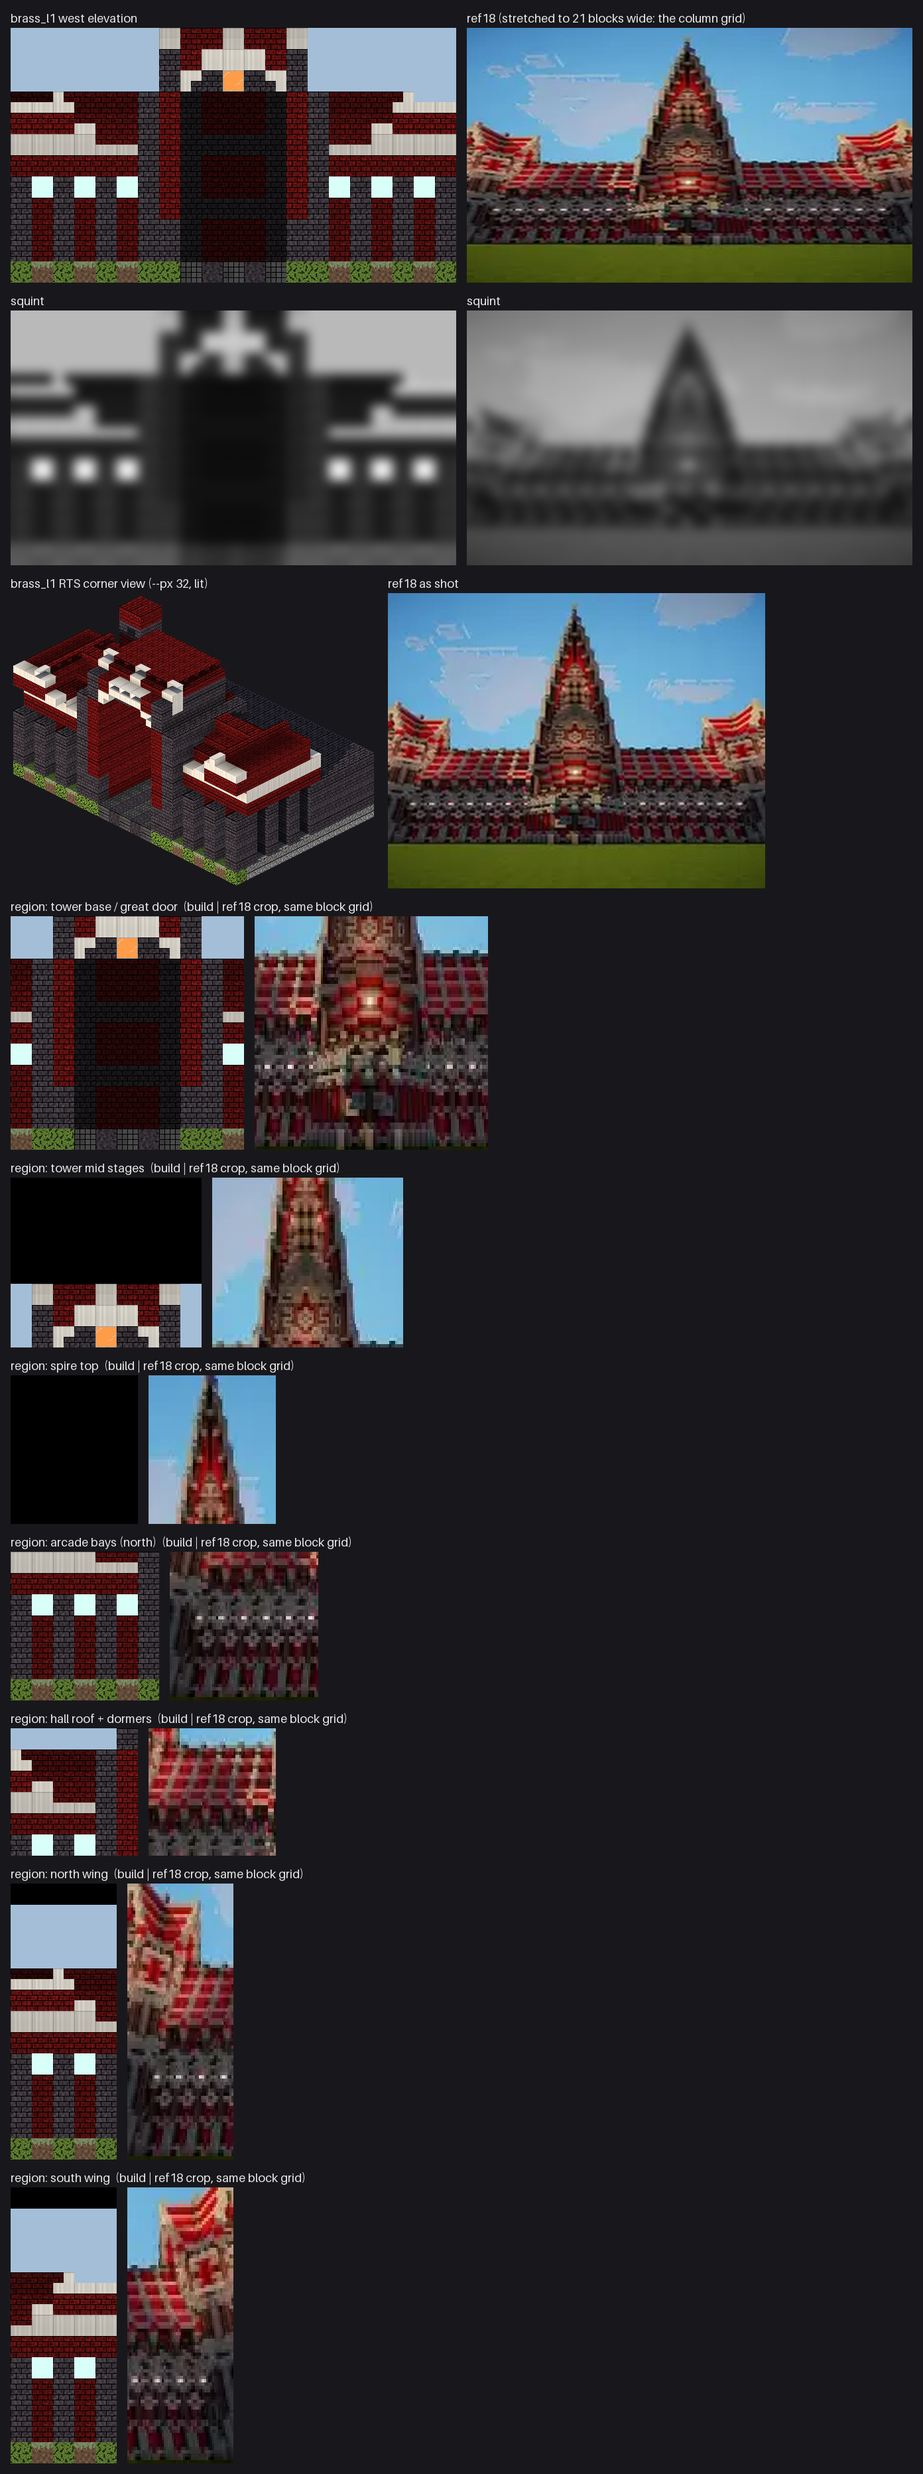
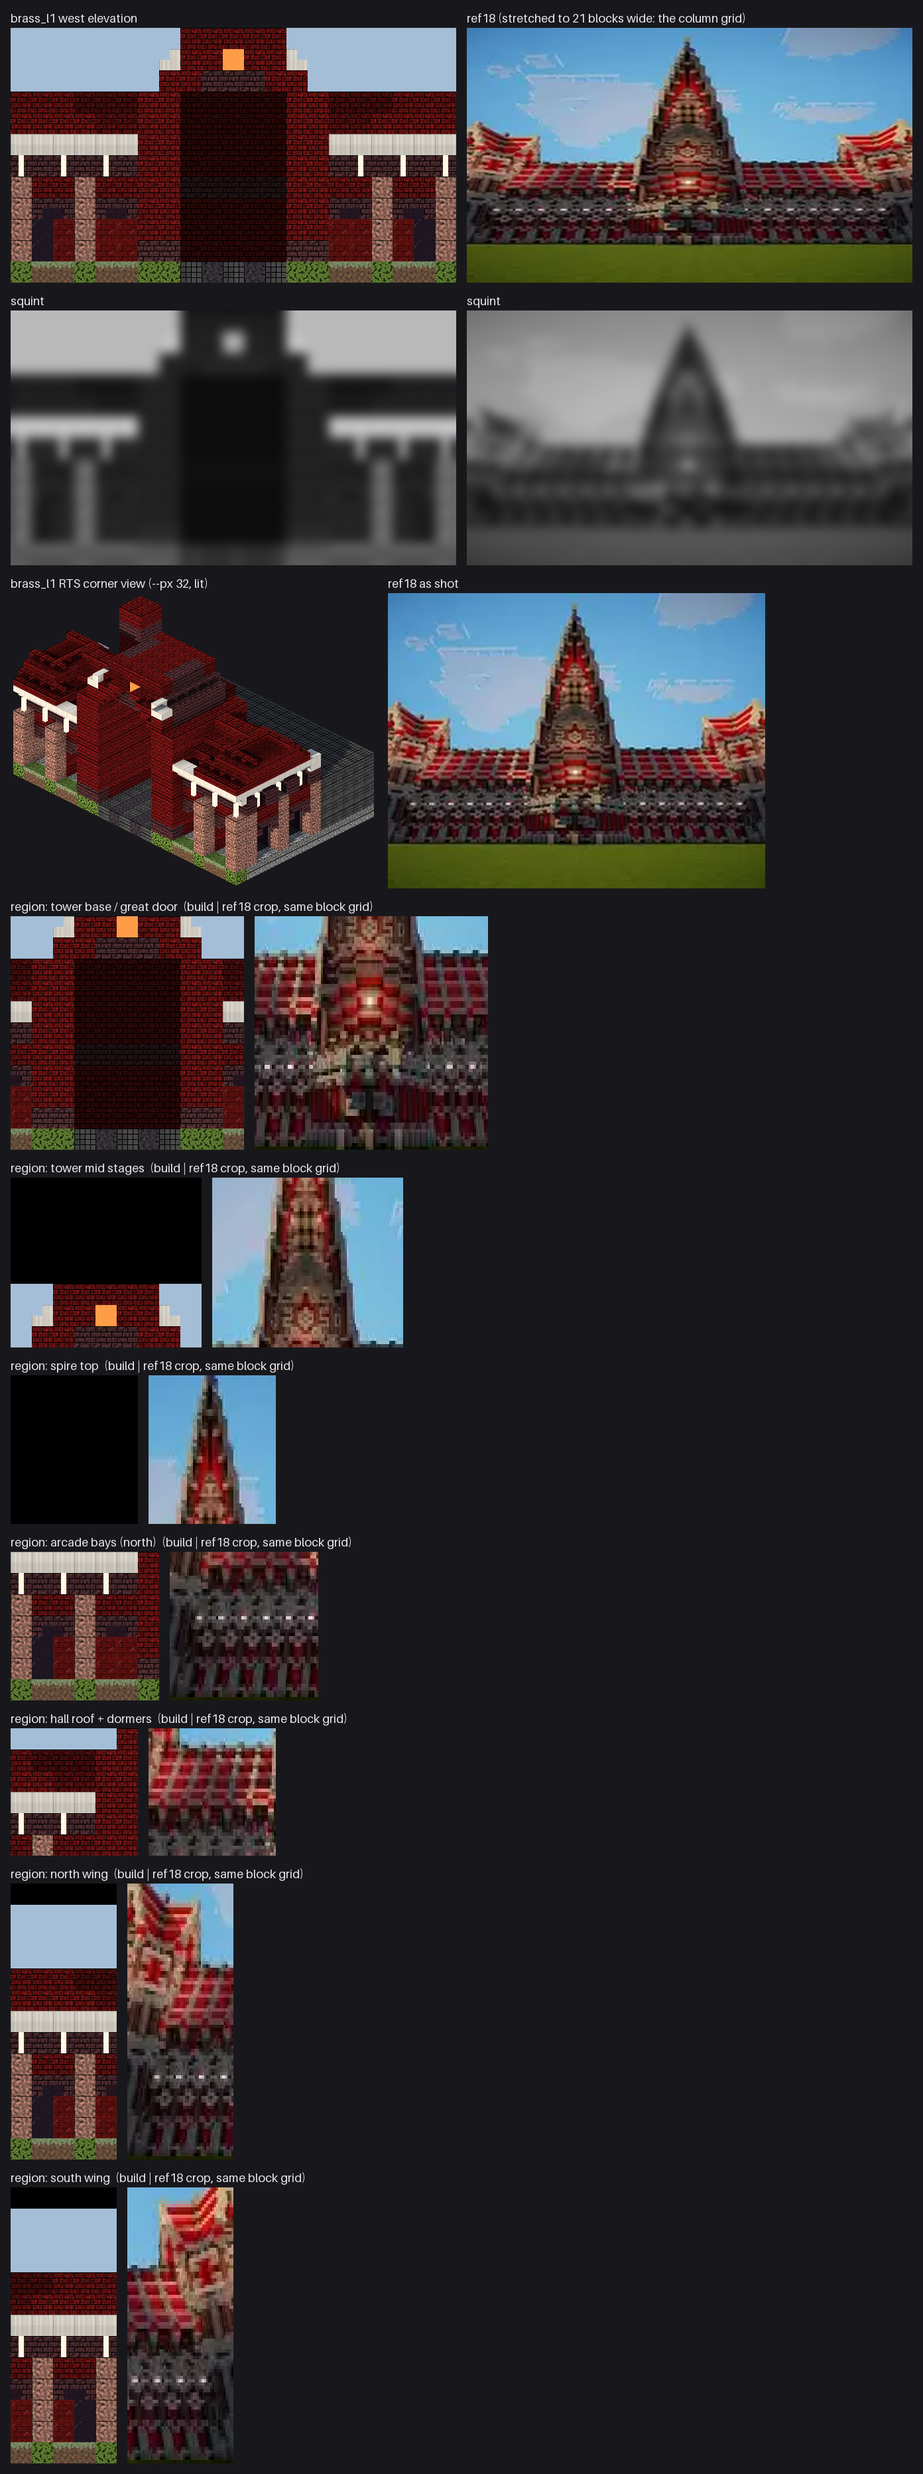
design: Engine Shed detail round 3 (continuous spire from a width table, colour measured on rendered pixels)
Claude-Session: https://claude.ai/code/session_01Xns8nVKZZJBRXps6hy86qY

diff --git a/tools/lab_vehicle_brass.py b/tools/lab_vehicle_brass.py
@@ -116,6 +116,23 @@ edges - that is what made r1's flares and lantern box.
      banded dark. Front balance 42 / 37 / 18 (red / black / cream).
   4  stage lips dashed (cream at the arrises and centre only); the works stack's top hidden behind the wing crest.
      Balance 44 / 37 / 16 + 3% light, outline still equal to r3 column for column.
+DETAIL ROUND 3 (critic on r2: 4 / 4 - the tower still read as stacked stages; sheet brass_detail_vs_ref_r3.png, lit).
+Fixed BY NUMBERS first. The spire is ONE line, HW_TABLE (row -> the line's half-width at each half row and the outline
+that quantizes it), half-width 3.5 at the hall roof (the r3 base, 7 wide) to 0 at y 22; a stair (tall half in) wherever
+the outline steps in half a block. Colour measured on the RENDERED PIXELS (scratch tool: near-black = luma < 62 and
+chroma < 36, red = red-dominant above it): ref18's building reads 42 / 38 / 2 (red / near-black / pale).
+  1  spire from shape_kit (a sampled pyramid): rows 9-13 came out one width - a box shoulder; max deviation 1.0 block.
+  2  spire from the table, quantized per half row (best monotone outline); cream single cells on the front arrises.
+     Blackstone rendered GREY, not black (pixels: 39 red / 37 black / 14 other) -> the darks are nether brick
+     (65,37,40) and deepslate tiles.
+  3  pilasters polished granite (warm, paler than the bays), the bays red glass over red brick under a tinted-glass
+     head, end rods hung under the eave every 2 blocks; elevation 53 / 38 / 8, corner 59 / 27 / 6.
+  4  wing roofs gabled: each course steps in 1 toward a 1-wide ridge with a brick finial, the outer end's eave an
+     overhanging cream stair.
+  5  cream moved to mid-run cells (no step "ears"), then back to the step stairs (single wedges ON the line); a pass
+     that let a full row follow a stair at the same width made notches - the outline must never widen going up.
+  Spire vs ref18's line: max 1.17 blocks at the foot (r3's 7-wide base against ref18's 5), <= 0.6 from y 11 up,
+  <= 0.5 against its own line everywhere.
 
 Usage: python3 tools/lab_vehicle_brass.py            (writes design/vehicle_labs/brass_l3.nbt and brass_l1.nbt, checks)
        python3 tools/lab_vehicle_brass.py --greybox  (the approved r3 greybox: design/vehicle_labs/brass_l3_greybox.nbt)
@@ -261,10 +278,12 @@ def greybox():
 FAM = {
     "roof": ("red_nether_bricks", "red_nether_brick_stairs", "red_nether_brick_slab"),
     "white": ("quartz_block", "quartz_stairs", "quartz_slab"),
+    "dark": ("nether_bricks", "nether_brick_stairs", "nether_brick_slab"),
 }
 OUT_L3, OUT_L1 = "design/vehicle_labs/brass_l3.nbt", "design/vehicle_labs/brass_l1.nbt"
-PIERS_Z = (0, 2, 4, 16, 18, 20)        # front arcade piers: blackstone, every 2nd column
-BAYS_Z = (1, 3, 5, 15, 17, 19)         # front arcade openings, 1 wide, dark, a light dot over each
+PILASTERS_Z = (0, 3, 17, 20)           # the front arcade's pilasters (the tower's dark base piers at z 6 / 14)
+BAY_Z0 = (1, 4, 15, 18)                # each 2-wide bay's first column
+LIGHTS_Z = (0, 2, 4, 16, 18, 20)       # the tiny lights under the eave, every 2 blocks
 
 
 def shape_of(name):
@@ -295,131 +314,209 @@ def slab(fam, t="bottom"):
     return FAM[fam][2], dict(type=t, waterlogged="false")
 
 
-# ---- round 2 (critic: resemblance 4, quality 5, silhouette worse than r3): the tower rebuilt as explicit stages
-RED, BLACK, CREAM = "red_nether_bricks", "polished_blackstone_bricks", "quartz_block"
-# stages (y0, y1, x0, z0, z1): each set back one block in x and z; the outline tapers 7 -> 5 -> 3 -> 1 (r3's columns)
-STAGES = ((9, 11, 1, 7, 13), (12, 15, 2, 8, 12), (16, 19, 3, 9, 11))
-T_BACK = 5            # every stage's back face (x 6 stays air: the spawn column)
-POINT = (3, 20, 10)   # the brick point: a red block and a red brick wall post on it (y 21)
+# ---- round 3 (critics on r2: 4 / 4 - the tower still read as stacked stages): ONE continuous taper, by numbers
+# measured on the LIT RENDER, not by block: polished blackstone renders mid grey, so the near-black share is nether
+# brick (65,37,40 - ref18's dark crimson-brown) and deepslate tiles (58 grey, dark under the sun's angle)
+RED, BLACK, CREAM = "red_nether_bricks", "nether_bricks", "quartz_block"
+DARK_GLASS = "tinted_glass"
+PILASTER = "polished_granite"          # the arcade's pilasters: paler than the dark bays, warm (red-dominant pixels)
+T_CX, T_CZ, T_BACK = 3, 10, 5          # the spire's axis (x, z) and its back column (x 6 = the spawn column)
+T_Y0, T_APEX, T_HW0 = 9, 22.0, 3.5      # the line: half-width 3.5 at the hall's roof line (y 9) to 0 at y 22
+# THE LINE. ref18's flank, measured on its sky mask in this build's block grid (230 px -> 21 blocks, ground..tip ->
+# 0..22), is straight: half-width 2.47 at the hall roof (y 9.5), 1.55 at y 15.8, 0.23 at y 21.5 (hw = 4.07 - 0.169 y).
+# The approved r3 massing is 7 wide at the hall roof (both critics: the massing reads right at RTS zoom), so the spire
+# runs from r3's width there to the apex: hw(y) = 3.5 (22 - y) / 13 - steeper than ref18's by 0.1 a block, up to 1.0
+# block wider at the foot, equal at y ~20.
+# QUANTIZING (front view), per HALF row: a row's lower half can only end on a cell edge (lo = k + 0.5); its upper half
+# on that edge or half a block in (hi = lo - 0.5: the outer ring a stair, tall half facing in); the next row's lower
+# half no wider than that upper half, so the outline never widens going up (pass 8 let a full row follow a stair row at
+# the same width: notches). width_table() takes the monotone outline with the smallest summed square deviation from
+# the line (then the smallest worst one) - one line of half steps, no shoulders.
 
 
-def stage_of(y):
-    return next((st for st in STAGES if st[0] <= y <= st[1]), None)
+def hw(y):
+    return max(0.0, T_HW0 * (T_APEX - y) / (T_APEX - T_Y0))
+
+
+def width_table():
+    """THE WIDTH TABLE: row y -> (line half-width at the lower / upper half's middle, lower / upper outline)."""
+    ys = list(range(T_Y0, int(T_APEX)))
+    best = {9.0: (0.0, 0.0, [])}                 # state: the last half row's outline -> (worst, sum sq, outlines)
+    for y in ys:
+        lo_t, hi_t = hw(y + .25), hw(y + .75)
+        nxt = {}
+        for prev, (sq, worst, path) in best.items():
+            for lo in [k + .5 for k in range(5) if k + .5 <= prev]:
+                for hi in [w for w in (lo, lo - .5) if w > 0]:
+                    e1, e2 = abs(lo - lo_t), abs(hi - hi_t)
+                    cand = (sq + e1 * e1 + e2 * e2, max(worst, e1, e2), path + [(y, lo, hi)])
+                    if hi not in nxt or cand[:2] < nxt[hi][:2]:
+                        nxt[hi] = cand
+        best = nxt
+    path = min(best.values(), key=lambda c: c[:2])[2]
+    return {y: (round(hw(y + .25), 2), round(hw(y + .75), 2), lo, hi) for y, lo, hi in path}
+
+
+HW_TABLE = width_table()
+TIP_Y0 = 20           # from here the point is a brick wall post (the line's half-width < 0.4)
+
+
+def spire_cells():
+    """{(x, y, z): ("full",) | ("stairs", inward)} from HW_TABLE: square rings of Chebyshev distance d round the axis
+    (cut at the back column); the outer ring d = lo - 0.5 is full, or a stair facing in where the upper half steps in."""
+    out = {}
+    for y, (_, _, lo, hi) in HW_TABLE.items():
+        if y >= TIP_Y0:
+            continue
+        dmax = int(lo - .5)
+        for x in range(max(0, T_CX - dmax), T_BACK + 1):
+            for z in range(T_CZ - dmax, T_CZ + dmax + 1):
+                d = max(abs(x - T_CX), abs(z - T_CZ))
+                if d > dmax:
+                    continue
+                if d < dmax or hi == lo or d == 0:
+                    out[(x, y, z)] = ("full",)
+                else:
+                    side = abs(z - T_CZ) == d                # a flank cell (z) or a front / back cell (x)
+                    out[(x, y, z)] = ("stairs", ("south" if z < T_CZ else "north") if side else
+                                      ("east" if x < T_CX else "west"))
+    return out
 
 
 def tower(g):
-    """The tower, replacing the greybox pyramid: a base block over the great door (y 1..8, x 0..6, z 6..14), a
-    frontispiece with the round arch (x 0, y 9..10, z 7..13), three set-back stages and a brick point. Dark red-brown
-    flanks (blackstone) and a red heart; cream only on the arrises (stage corners) and the stage lips."""
+    """The tower, replacing the greybox pyramid: the base block over the great door (y 1..8, x 0..6, z 6..14) and ONE
+    continuous spire from the hall's roof line to the apex, voxelized with its stair edges (low side out) so each
+    flank reads as a line. Dark red, near-black bands, cream only as dashed single cells on the two front arrises."""
     for q in [q for q in g.b if q[0] <= 6 and 6 <= q[2] <= 14 and q[1] >= 1]:
         x, y, z = q
         if y >= 9 or (y >= 6 and z in (6, 7, 13, 14)) or (x == 0 and z in (6, 7, 13, 14)):
             del g.b[q]
-    # the base block: two flanking piers either side of the lane, full depth, to the hall's ridge course
     for z in (6, 7, 13, 14):
         for x in range(0, 7):
             for y in range(1, 9):
-                put(g, (x, y, z), BLACK if z in (6, 14) or x == 0 and y <= 2 else RED)
-    # the stages
-    for (y0, y1, x0, z0, z1) in STAGES:
-        for y in range(y0, y1 + 1):
-            for x in range(x0, T_BACK + 1):
-                for z in range(z0, z1 + 1):
-                    edge = z in (z0, z1) or x == x0 and z in (z0 + 1, z1 - 1) and z1 - z0 >= 4
-                    corner = x == x0 and z in (z0, z1) and (y - y0) % 2 == 1      # quoins: the arris, dashed
-                    put(g, (x, y, z), CREAM if corner else BLACK if edge else RED)   # red faces, dark flanks
-        # the lip: the top course's cells not under the next stage turn into stairs falling outward, in cream
-        nxt = stage_of(y1 + 1)
-        for x in range(x0, T_BACK + 1):
-            for z in range(z0, z1 + 1):
-                under = nxt and x >= nxt[2] and nxt[3] <= z <= nxt[4] or (x, y1 + 1, z) == POINT
-                if under:
-                    continue
-                face = "east" if x == x0 else "south" if z == z0 else "north" if z == z1 else "west"
-                lip = x == x0 and (z in (z0, z1) or z == 10)    # cream at the arrises and the centre: a lip, dashed
-                put(g, (x, y1, z), *stair("white" if lip else "roof", face))
-    put(g, POINT, RED)
-    put(g, (POINT[0] + 1, POINT[1], POINT[2]), RED)
-    put(g, (POINT[0], POINT[1] + 1, POINT[2]), "red_nether_brick_wall")
-    # the frontispiece over the door: the round arch in wall material, a cream voussoir line tracing its head
-    for y in (9, 10):
-        for z in range(7, 14):
-            put(g, (0, y, z), BLACK if z in (7, 13) else RED)
-    put(g, (0, 9, 8), *stair("white", "north", "top"))         # the haunches: the arch's head rounds off
-    put(g, (0, 9, 12), *stair("white", "south", "top"))
+                put(g, (x, y, z), BLACK if x == 0 and y <= 1 else RED)
+    cells = spire_cells()
+    for (x, y, z), c in cells.items():
+        d = max(abs(x - T_CX), abs(z - T_CZ))
+        outer = d == int(HW_TABLE[y][2] - .5) and d > 0
+        fam = "dark" if outer and abs(z - T_CZ) == d and abs(x - T_CX) < d else "roof"   # near-black flank faces
+        if c[0] == "stairs":
+            put(g, (x, y, z), *stair(fam, c[1]))
+        elif c[0] == "slab":
+            put(g, (x, y, z), *slab(fam))
+        else:
+            put(g, (x, y, z), FAM[fam][0])
+    for y in range(TIP_Y0, int(T_APEX)):                       # the point: thin brick posts (half a block wide),
+        put(g, (T_CX, y, T_CZ), "red_nether_brick_wall")       # where the line is under a quarter block
+    for (x, y, z), c in cells.items():                 # cream: one cell per side where the flank line steps in -
+        d = int(HW_TABLE[y][2] - .5)                   # the stair on the front arris, a half-block wedge lying ON
+        if c[0] == "stairs" and d > 0 and x == T_CX - d and abs(z - T_CZ) == d:   # the line: dashed, no "ears"
+            paint(g, (x, y, z), "white")
+    # the door head: corbelled inward with upside-down stairs to a point; ONE warm light framed in its centre
+    def front(y, z):
+        return min(x for x in range(0, 7) if (x, y, z) in g.b)
+    for y, zs in ((9, (9, 10, 11)), (10, (10,))):
+        for z in zs:
+            g.clear(front(y, z) if (0, y, z) not in g.b else 0, y, z)
+    for y, (zn, zs) in ((9, (8, 12)), (10, (9, 11))):
+        put(g, (0, y, zn), *stair("roof", "north", "top"))
+        put(g, (0, y, zs), *stair("roof", "south", "top"))
     for z in (9, 10, 11):
-        g.clear(0, 9, z)                                       # the head of the opening, a recess over the lane
-        put(g, (0, 10, z), *stair("white", "west", "top"))     # the voussoir line: one thin cream course
-    put(g, (1, 9, 9), BLACK)
-    put(g, (1, 9, 11), BLACK)
-    put(g, (1, 9, 10), "glass")                                # the ONE warm light, inside the arch's head
-    put(g, (2, 9, 10), "shroomlight")
-    # the medallion (clock) on stage 2's face: brass centre in a cream ring, as the picture's round medallion
-    x0 = STAGES[1][2]
-    put(g, (x0, 13, 10), "waxed_copper_block")
-    # the great door's interior: dark, the far wall blackstone banded with dark brick
+        put(g, (1, 9, z), BLACK)
+    put(g, (1, 10, 10), "shroomlight")
+    # the brass clock: one cell on the spire's face, as the picture's medallion
+    put(g, (front(14, 10), 14, 10), "waxed_copper_block")
+    # the great door's interior: dark, the far wall deep red banded near-black
     for z in LANE_Z:
         for y in range(1, LANE_H + 1):
-            put(g, (7, y, z), BLACK if y % 3 == 0 or z in (8, 12) else RED)   # deep red banded dark, in shadow
+            put(g, (7, y, z), BLACK if y == 4 else RED)          # deep red in the door's shadow, one dark band
 
 
 def detail():
-    """L3, round 2: the r3 massing with the tower rebuilt as explicit stages (r3's outline, column for column), then
-    painted to ref18's balance: ~50% deep red, ~35% near-black, ~15% cream as one-course lines."""
+    """L3, round 3: the r3 massing, the tower as one continuous spire, the arcade as 2-wide dark bays between paler
+    pilasters with a row of tiny lights under a cream eave, the wings as a red plane under that one cream eave line."""
     g = greybox()
     base = dict(g.b)
     for q, (n, _) in base.items():
         if n in (WALL, HOLE):
             g.b[q] = (RED, {})
         elif n == SHED:
-            g.b[q] = (BLACK, {})
+            g.b[q] = ("deepslate_tiles", {})
     tower(g)
-    # ---- ground: the lawn, the lane paved dark
     for z in LANE_Z:
         for x in LANE_X:
             put(g, (x, 0, z), "polished_blackstone" if z in (9, 11) else "deepslate_tiles")
-    # ---- THE ARCADE, front (x 0..1): a blackstone pier every 2nd column, 1-wide dark openings, a course of lights
-    for z in PIERS_Z:
-        for y in range(1, 5):
-            put(g, (0, y, z), BLACK)
-    for z in BAYS_Z:
-        for y in (1, 2, 3):
-            g.clear(1, y, z)
-            put(g, (2, y, z), RED)                             # the opening's back: deep crimson in shadow
-        g.clear(1, 4, z)
-        put(g, (2, 4, z), "sea_lantern")                       # the light dot at the arcade head, recessed
-    for z in [z for z in range(SZ) if not 6 <= z <= 14]:
-        put(g, (1, 5, z), RED)                                 # the red frieze under the eave cornice
+    hall_z = [z for z in range(SZ) if not 6 <= z <= 14]
+    # ---- THE EAVE: one cream line, an overhanging upside-down stair along the whole front at the wall top
+    for z in hall_z:
+        put(g, (0, 6, z), *stair("white", "east", "top"))
         n = g.b.get((1, 6, z), ("air",))[0]
-        if shape_of(n) == 2:
-            put(g, (1, 6, z), *slab("white", g.b[(1, 6, z)][1].get("type", "bottom")))
-        else:
-            put(g, (1, 6, z), CREAM)                           # the eave cornice: one cream course (kept from r1)
-    # ---- the ends (z 0 and z 20, the camera's second face): the same order
+        if shape_of(n) == 0:
+            put(g, (1, 6, z), RED)
+        put(g, (1, 5, z), BLACK)                               # the dark frieze the lights hang in
+    # ---- THE ARCADE: 2-wide dark bays (tinted glass behind a round head) between paler pilasters; tiny lights hung
+    # every 2 blocks directly under the eave
+    for z in PILASTERS_Z:
+        for y in range(1, 5):
+            put(g, (0, y, z), PILASTER)
+        put(g, (1, 4, z), PILASTER)
+    for z0 in BAY_Z0:
+        for i, z in enumerate((z0, z0 + 1)):
+            for y in (1, 2):
+                g.clear(1, y, z)
+            put(g, (1, 3, z), *stair("dark", "north" if i == 0 else "south", "top"))
+            put(g, (2, 3, z), DARK_GLASS)                      # dark glass in the arch's head
+            for y in (1, 2):
+                put(g, (2, y, z), "red_stained_glass")         # the bay's lower panes glow dark crimson,
+                put(g, (3, y, z), RED)                         # red brick behind them (ref18's crimson bays)
+    for z in LIGHTS_Z:
+        put(g, (0, 5, z), "end_rod", facing="down")
+    # ---- the ends (z 0 and z 20, the camera's second face): the same order, the lights in notches under the eave
     for zf, zin in ((0, 1), (SZ - 1, SZ - 2)):
         for x in range(1, 8):
             for y in range(1, 6):
-                put(g, (x, y, zf), BLACK if x % 2 == 1 and y < 5 else RED)
+                put(g, (x, y, zf), BLACK if y == 5 else RED)
             put(g, (x, 6, zf), CREAM)
-        for x in (2, 4, 6):
-            for y in (1, 2, 3):
+        for x in (1, 4, 7):
+            for y in range(1, 5):
+                put(g, (x, y, zf), PILASTER)
+        for i, x in enumerate((2, 3, 5, 6)):
+            for y in (1, 2):
                 g.clear(x, y, zf)
-                put(g, (x, y, zin), RED)
-            g.clear(x, 4, zf)
-            put(g, (x, 4, zin), "sea_lantern")
-    # ---- the wing roofs: one solid red plane and ONE cream line, the rake along the front edge (x 0) and the crest
+                put(g, (x, y, zin), DARK_GLASS)
+            put(g, (x, 3, zf), *stair("dark", "west" if x in (2, 5) else "east", "top"))
+            put(g, (x, 3, zin), DARK_GLASS)
+        for x in (2, 4, 6):
+            put(g, (x, 5, zf), "end_rod", facing="down")
+    # ---- the wing roofs: r3's swept mass, each course's eave turned into stairs stepping in across x to a 1-wide
+    # ridge at x 3 (so the end reads as a gable, not a slab wall), a 1-block overhanging eave of upside-down cream
+    # stairs at the wall top on the outer end, a small brick finial on the ridge
     for (z0, z1) in ((0, 4), (16, 20)):
         for z in range(z0, z1 + 1):
-            ys = [y for y in range(7, H_MAX) if (0, y, z) in g.b and g.b[(0, y, z)][0] in ROLE_OF]
-            if ys and z not in range(5, 16):
-                paint(g, (0, max(ys), z), "white")
-    # ---- the works: blackstone, the stack red with a dark cap
+            for y in range(WING_TOP + 1, H_MAX):
+                reach = max(0, 3 - (y - WING_TOP - 1))        # the gable: 3 out from the ridge at y 7, 1 less a course
+                for x in range(0, 7):
+                    q = (x, y, z)
+                    if q not in g.b or g.b[q][0] not in ROLE_OF:
+                        continue
+                    off = abs(x - 3)
+                    if off > reach:
+                        del g.b[q]
+                    elif off == reach and off > 0:
+                        put(g, q, *stair("roof", "east" if x < 3 else "west"))
+    for zf, inward in ((0, "south"), (SZ - 1, "north")):     # the eave lip on the wings' outer ends: one cream line
+        for x in range(1, 7):
+            put(g, (x, WING_TOP, zf), *stair("white", inward, "top"))
+    for zr in (0, SZ - 1):
+        top = max(y for y in range(H_MAX) if (3, y, zr) in g.b)
+        put(g, (3, top + 1, zr), "red_nether_brick_wall")
+    # ---- the works: blackstone, the stack red with a dark cap, hidden behind the north wing's crest
     x0, x1, z0, z1, top = STACK
     for x in (x0, x1):
         for z in (z0, z1):
             for y in range(SHED_TOP + 1, top + 1):
                 put(g, (x, y, z), BLACK if y in (7, top) else RED)
-            g.clear(x, top, z) if z == 1 else None              # its top course hides behind the wing's crest
+            g.clear(x, top, z) if z == 1 else None
     return g
 
 
